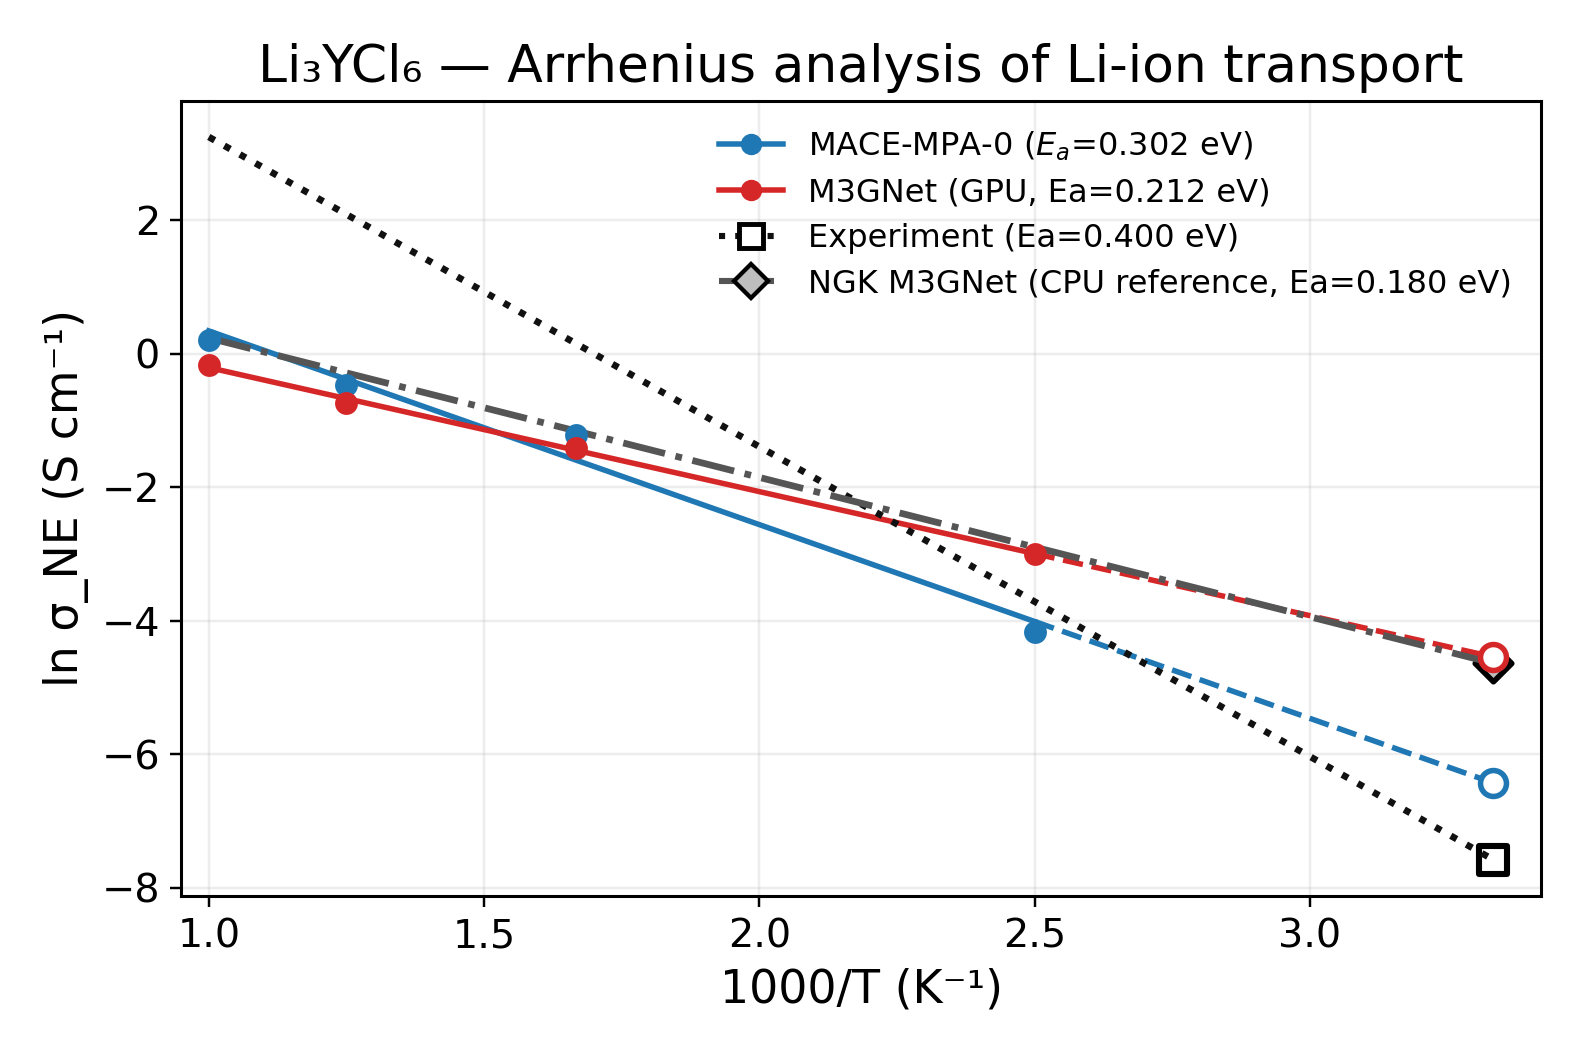
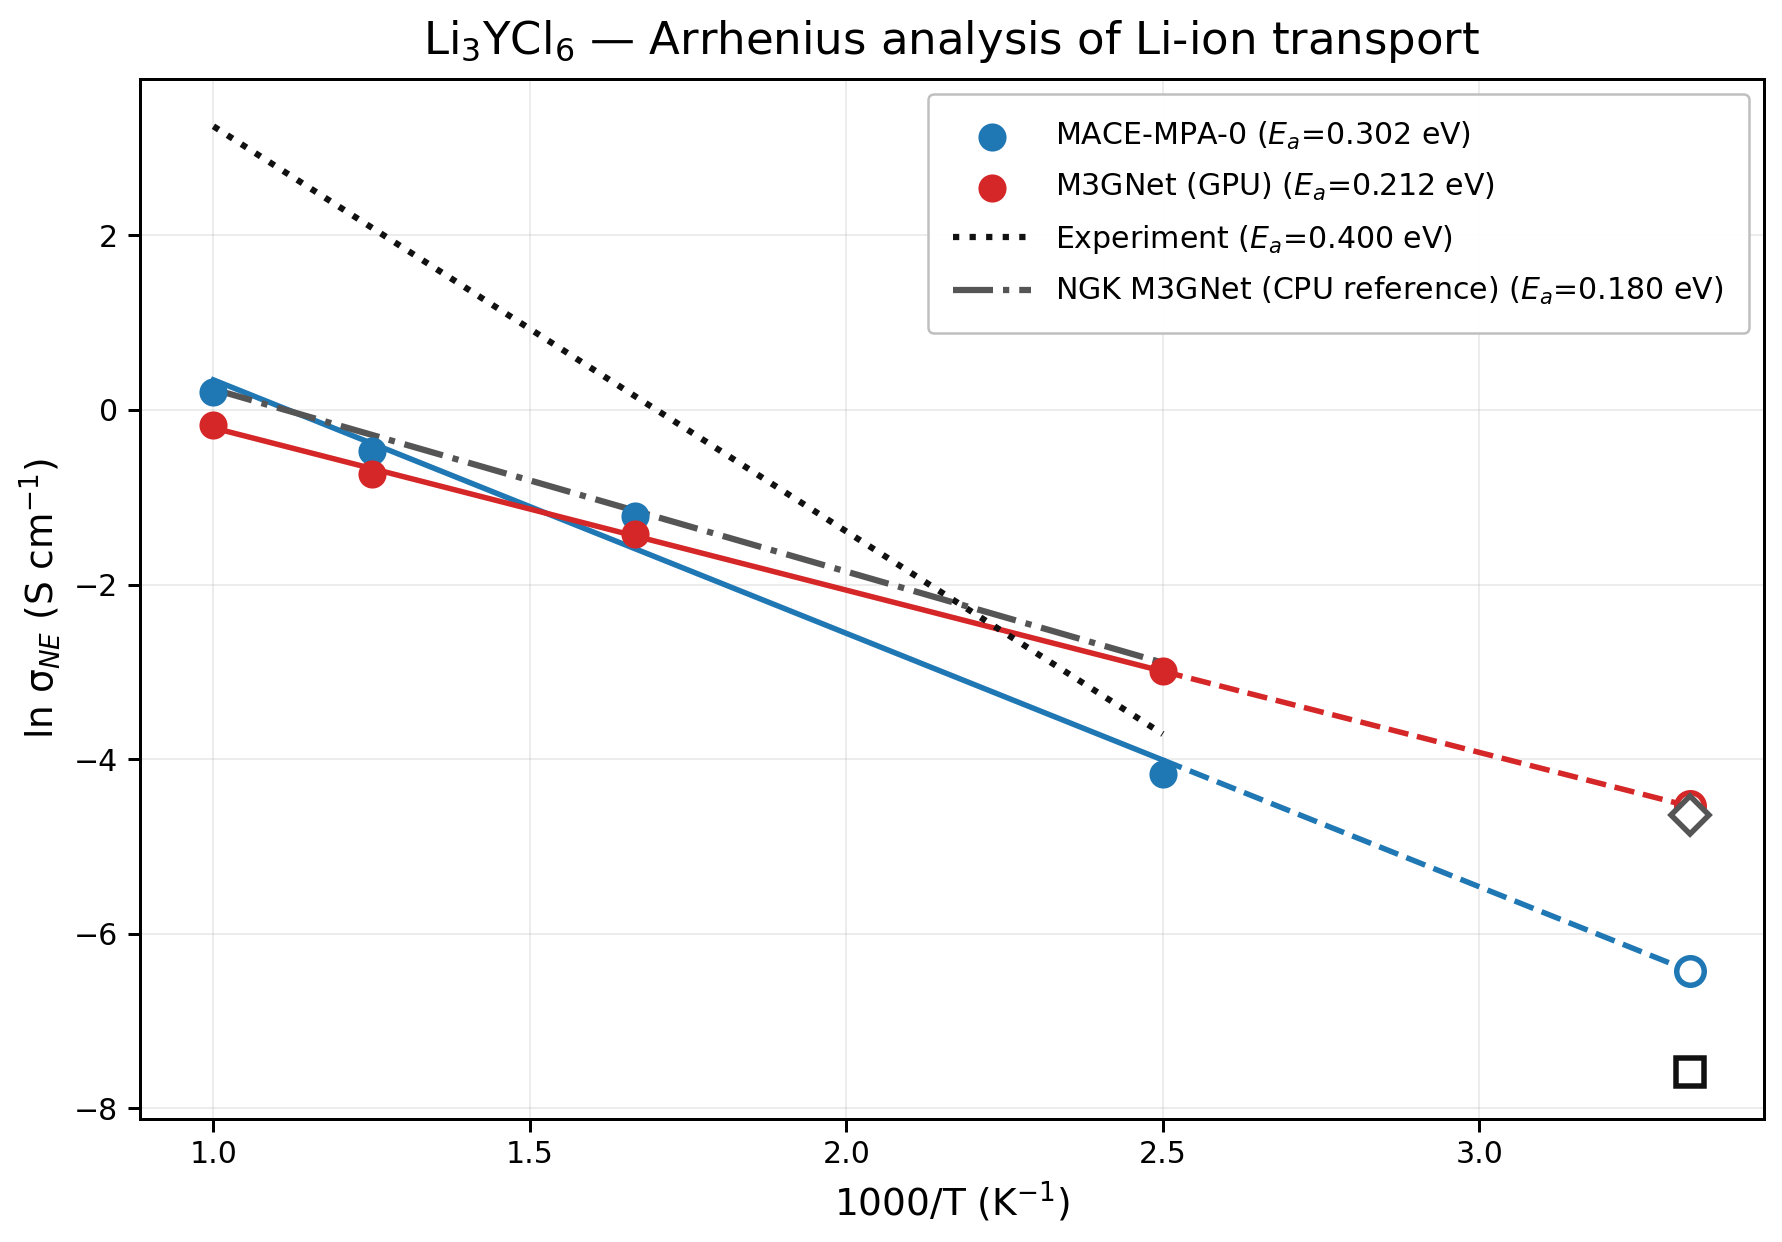
Align two-model Arrhenius figure typography

diff --git a/src/li_research/analysis/arrhenius/plot_li3ycl6_arrhenius_midterm.py b/src/li_research/analysis/arrhenius/plot_li3ycl6_arrhenius_midterm.py
@@ -54,3 +54,39 @@ ax.legend(fontsize=12.0, loc="upper right",
 fig.tight_layout()
 for out in OUTS:
     fig.savefig(out, bbox_inches="tight")
+
+# Keep the two-model midterm comparison used in the presentation README,
+# using exactly the same typography and axis style as the three-model figure.
+fig2, ax2 = plt.subplots(figsize=(10, 7), dpi=180)
+for name, sigma, ea, color in (models[0], models[2]):
+    y = np.log(sigma)
+    slope, intercept = np.polyfit(x, y, 1)
+    xx = np.linspace(x.min(), x.max(), 200)
+    ax2.plot(xx, slope * xx + intercept, color=color, lw=2.2)
+    ax2.scatter(x, y, color=color, s=105, zorder=3,
+                label=fr"{name} ($E_a$={ea:.3f} eV)")
+    x300 = 1000.0 / 300.0
+    y300 = slope * x300 + intercept
+    ax2.plot([x.max(), x300], [slope * x.max() + intercept, y300],
+             color=color, lw=2.2, ls="--")
+    ax2.plot(x300, y300, marker="o", ms=11, mfc="white", mec=color, mew=2.2)
+for name, sigma300, ea, color, marker, ls in references:
+    y300 = np.log(sigma300)
+    yline = y300 - (ea / kB) * (xx / 1000.0 - 1.0 / 300.0)
+    ax2.plot(xx, yline, color=color, lw=2.5, ls=ls,
+             label=fr"{name} ($E_a$={ea:.3f} eV)")
+    ax2.plot(1000.0 / 300.0, y300, marker=marker, ms=11,
+             mfc="white", mec=color, mew=2.2)
+ax2.set_title(r"Li$_3$YCl$_6$ — Arrhenius analysis of Li-ion transport", fontsize=18, pad=10)
+ax2.set_xlabel(r"1000/T (K$^{-1}$)", fontsize=15)
+ax2.set_ylabel(r"ln σ$_{NE}$ (S cm$^{-1}$)", fontsize=15)
+ax2.tick_params(labelsize=12, width=1.2, length=5)
+for spine in ax2.spines.values():
+    spine.set_linewidth(1.2)
+ax2.grid(True, alpha=0.23)
+ax2.legend(fontsize=12.0, loc="upper right", frameon=True,
+           edgecolor="#bdbdbd", facecolor="white", framealpha=0.96,
+           borderpad=0.85, labelspacing=0.65, handlelength=2.6)
+fig2.tight_layout()
+fig2.savefig(ROOT / "results/midterm_Li3YCl6_MACE_M3GNet/plots/Li3YCl6_Arrhenius_MACE_M3GNet_exp_company.png",
+             bbox_inches="tight")
